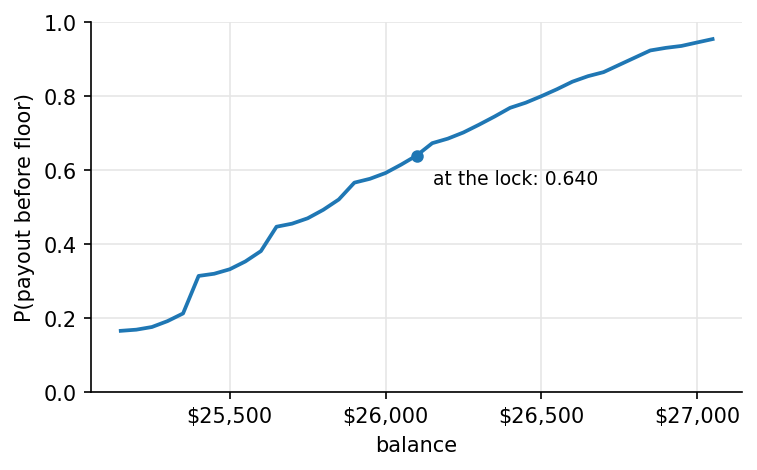
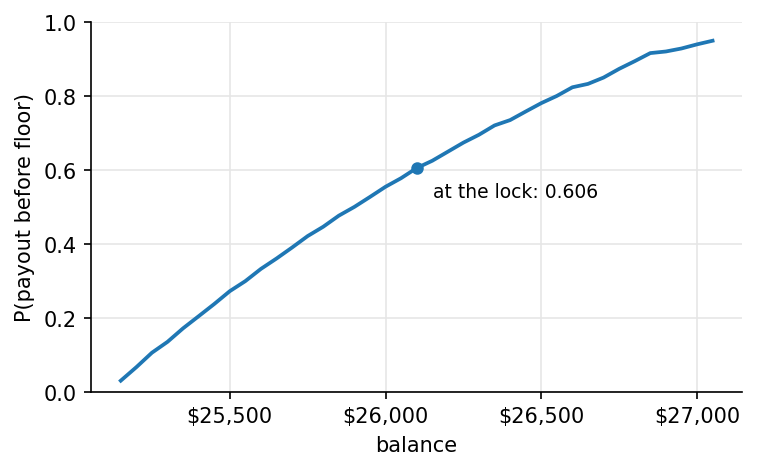
updated figures

diff --git a/figures/validation_table.md b/figures/validation_table.md
@@ -1,4 +1,4 @@
-Settings: Lucid 25K Flex, $250 per trade, MAE off, 884 trades.
+Settings: Lucid 25K Flex, $250 per trade, MAE on, 884 trades.
 
 | Check | Solver | Exact |
 |---|---|---|
@@ -7,5 +7,5 @@ Settings: Lucid 25K Flex, $250 per trade, MAE off, 884 trades.
 
 | Built on | Scored on | Optimal policy | Always RR 1.0 | Always RR 5.0 |
 |---|---|---|---|---|
-| First half | Second half | 0.351 | 0.298 | 0.291 |
-| Second half | First half | 0.390 | 0.301 | 0.335 |
+| First half | Second half | 0.316 | 0.282 | 0.280 |
+| Second half | First half | 0.360 | 0.288 | 0.323 |
